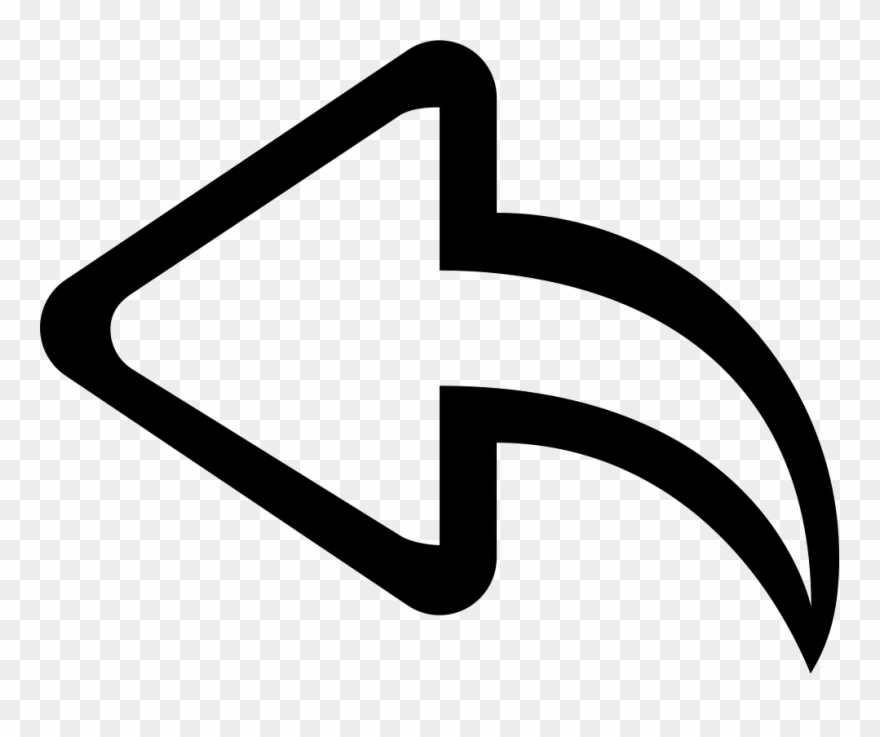
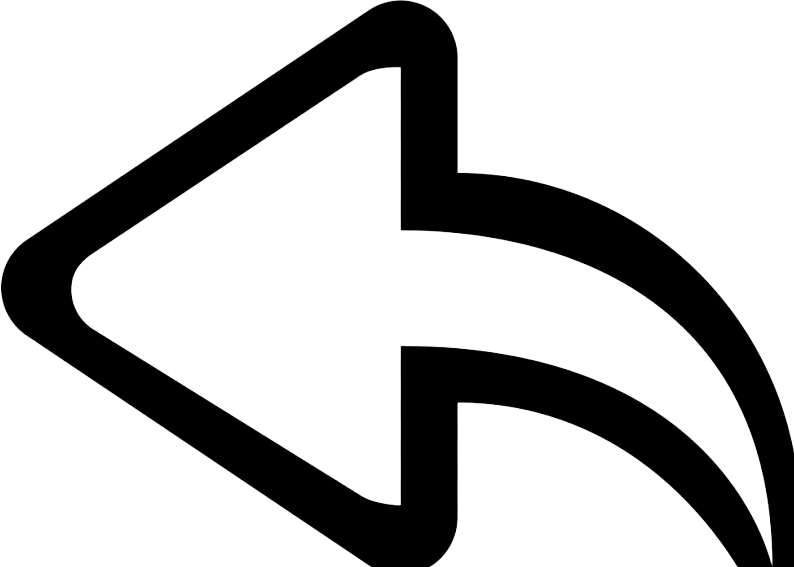
Se quita fondo flecha y se da mas estilo a registroP, consulta, ets

diff --git a/consulta-medica/src/app/consulta/consulta.component.html b/consulta-medica/src/app/consulta/consulta.component.html
@@ -1,23 +1,24 @@
-<div class="imagen"><a routerLink="/vistaE"><img class="imagen" src="assets/RB1.png" alt=""></a></div>
-<h1>Datos Consulta</h1>
 <div class="container">
-    <form action="http://127.0.0.1:8081/consulta" method="POST">
-        <div class="form-group">
-            <label class="label" for="ID" >ID</label>
-            <input name="ID" id="ID" [(ngModel)]="ID" type="text" placeholder="ID" class="form-control">
-            <label class="label" for="peso" >Peso</label>
-            <input name="peso" id="peso" [(ngModel)]="peso" type="text" placeholder="Peso" class="form-control">
-            <label class="label" for="talla" >Talla</label>
-            <input name="talla" id="talla" [(ngModel)]="talla" type="text" placeholder="Talla" class="form-control">
-           <label class="label" for="temperatura">Temperatura</label>
-           <input name="temperatura" id="temperatura" [(ngModel)]="temperatura" type="text" placeholder="Temperatura" class="form-control">
-           <label class="label" for="presionA">Presion Arterial</label>
-           <input name="presionA" id="presionA" [(ngModel)]="presion_arterial" type="text" placeholder="Presion Arterial" class="form-control">
-           <label class="label" for="pulsoC">Pulso Cardiaco</label>
-           <input name="pulsoC" id="pulsoC" [(ngModel)]="pulso_cardiaco" type="text" placeholder="Pulso Cardiaco" class="form-control">
-           <label class="label" for="fecha">Fecha</label>
-           <input name="fecha" id="fecha" [(ngModel)]="fecha" type="text" placeholder="Fecha" class="form-control">
-        </div>
-        <button type="submit" class="btn btn-primary" (click)="crearReg()">Registrar Consulta</button>
-    </form>
+    <div class="imagen"><a routerLink="/vistaE"><img class="imagen" src="assets/RB1.png" alt=""></a></div>
+    <h1>Datos Consulta</h1>
+        <form action="http://127.0.0.1:8081/consulta" method="POST">
+            <div class="form-group">
+                <label class="label" for="ID" >ID</label>
+                <input name="ID" id="ID" [(ngModel)]="ID" type="text" placeholder="ID" class="form-control">
+                <label class="label" for="peso" >Peso</label>
+                <input name="peso" id="peso" [(ngModel)]="peso" type="text" placeholder="Peso" class="form-control">
+                <label class="label" for="talla" >Talla</label>
+                <input name="talla" id="talla" [(ngModel)]="talla" type="text" placeholder="Talla" class="form-control">
+            <label class="label" for="temperatura">Temperatura</label>
+            <input name="temperatura" id="temperatura" [(ngModel)]="temperatura" type="text" placeholder="Temperatura" class="form-control">
+            <label class="label" for="presionA">Presion Arterial</label>
+            <input name="presionA" id="presionA" [(ngModel)]="presion_arterial" type="text" placeholder="Presion Arterial" class="form-control">
+            <label class="label" for="pulsoC">Pulso Cardiaco</label>
+            <input name="pulsoC" id="pulsoC" [(ngModel)]="pulso_cardiaco" type="text" placeholder="Pulso Cardiaco" class="form-control">
+            <label class="label" for="fecha">Fecha</label>
+            <input name="fecha" id="fecha" [(ngModel)]="fecha" type="text" placeholder="Fecha" class="form-control">
+            </div>
+            <button type="submit" class="btn btn-primary" (click)="crearReg()">Registrar Consulta</button>
+        </form>
 </div>
+<br><br>

diff --git a/consulta-medica/src/app/vista-enfermera/vista-enfermera.component.css b/consulta-medica/src/app/vista-enfermera/vista-enfermera.component.css
@@ -1,9 +1,24 @@
+@font-face {
+    font-family: noto;
+    src: url('/assets/Noto.ttf');
+}
+h1,h2{
+    font-family: noto;
+    padding: 15px;
+}
+p{
+    font-family: noto;
+    text-align: center;
+    font-size: large;
+}
 #liga{
+    font-family: noto;
     text-decoration: none;
-    padding: 5px;
+    padding: 10px;
     background-color: #C70039;
     border-radius: 4px;
     color: #F5F6F9;
+    margin: 15px;
 }
 #liga:hover{
     background-color: #1A23F5;
@@ -25,9 +40,15 @@
     border: dotted;
     border-style:  black 1px;
 }
-
+button{
+    text-align: center;
+    font-family: noto;
+    margin-top: 15px;
+    margin-bottom: 15px;
+}
 .imagen{
     width: 40px;
     height: 40px;
     border-radius: 5px;
+    margin: 15px;
 }

diff --git a/consulta-medica/src/app/consulta/consulta.component.css b/consulta-medica/src/app/consulta/consulta.component.css
@@ -1,5 +1,29 @@
+@font-face {
+    font-family: noto;
+    src: url('/assets/Noto.ttf');
+}
+h1{
+    font-family: noto;
+    text-align: center;
+    padding: 15px;
+}
+label{
+    font-family: noto;
+    margin: 10px;
+}
+input{
+    font-family: noto;
+}
 .imagen{
     width: 40px;
     height: 40px;
     border-radius: 5px;
+    margin-top: 15px;
+}
+button{
+    text-align: center;
+    font-family: noto;
+    margin-top: 15px;
+    margin-bottom: 15px;
+    background-color: #C70039;
 }

diff --git a/consulta-medica/src/app/registro-paciente/registro-paciente.component.css b/consulta-medica/src/app/registro-paciente/registro-paciente.component.css
@@ -3,3 +3,26 @@
     height: 40px;
     border-radius: 5px;
 }
+@font-face {
+    font-family: noto;
+    src: url('/assets/Noto.ttf');
+}
+h1{
+    font-family: noto;
+    text-align: center;
+    padding: 15px;
+}
+label{
+    font-family: noto;
+    margin: 10px;
+}
+input{
+    font-family: noto;
+}
+button{
+    text-align: center;
+    font-family: noto;
+    margin-top: 15px;
+    margin-bottom: 15px;
+    background-color: #C70039;
+}

diff --git a/consulta-medica/src/app/registro-paciente/registro-paciente.component.html b/consulta-medica/src/app/registro-paciente/registro-paciente.component.html
@@ -1,7 +1,6 @@
-
+<div class="container">
 <div class="imagen"><a routerLink="/vistaE"><img class="imagen" src="assets/RB1.png" alt=""></a></div>
 <h1>Registro de Pacientes</h1>
-<div class="container">
     <form action="http://127.0.0.1:8081/registrarPaciente" method="POST">
         <div class="form-group">
             <label class="label" for="nombre" >Nombre</label>

diff --git a/consulta-medica/src/app/vista-enfermera/vista-enfermera.component.html b/consulta-medica/src/app/vista-enfermera/vista-enfermera.component.html
@@ -5,7 +5,7 @@
     <br><br><br>
     <div class="row">
         <div class=" col-md-6 horizontal-scrollable text-wrap " id="DOCTORES">
-            <p>DOCTORES EN LINEA</p>
+            <p>DOCTORES EN LÍNEA</p>
 
         </div>
         <div class=" col-md-6 horizontal-scrollable text-wrap " id="Pacientes">

diff --git a/consulta-medica/src/app/registro/registro.component.css b/consulta-medica/src/app/registro/registro.component.css
@@ -19,4 +19,5 @@ button{
     font-family: noto;
     margin-top: 15px;
     margin-bottom: 15px;
+    background-color: #C70039;
 }
